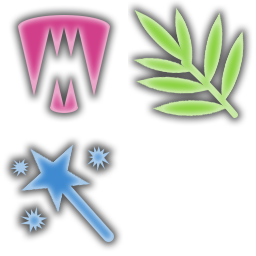
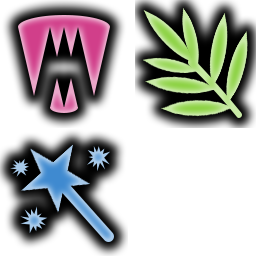
Glow things that can be use to satisfy orders

diff --git a/src/client/app.js b/src/client/app.js
@@ -8,7 +8,7 @@ const particle_data = require('./particle_data.js');
 const random_seed = require('random-seed');
 
 const { v2Build, v3Add, v3Build, v3BuildZero, v3Max, v3Min, v3Sub, v4Build } = VMath;
-const { abs, ceil, min, max, PI } = Math;
+const { abs, ceil, min, max, sin, PI } = Math;
 const { defaults, merge, clone, titleCase, lerp, easeInOut } = require('../common/util.js');
 
 let DEBUG = String(document.location).indexOf('localhost') !== -1;
@@ -320,6 +320,16 @@ export function main(canvas) {
         no_random: true,
       }
     ];
+    if (DEBUG && false) {
+      options = [
+        {
+          type: 'potion',
+          name: 'Potion',
+          min: [2, null, 2],
+          no_random: true,
+        }
+      ];
+    }
     let idx = game_state.orders_done + game_state.orders.length + 1;
     options = options.filter((order) => order.type === type);
     options = options.filter((order) => !order.min_idx || idx >= order.min_idx);
@@ -721,6 +731,10 @@ export function main(canvas) {
     return ret;
   }
 
+  function isSelected(type, value) {
+    return game_state.selected && game_state.selected[0] === type && game_state.selected[1] === value;
+  }
+
   function drawSources(dt) {
     let { selected } = game_state;
     let sources = clone(game_state.sources);
@@ -902,7 +916,42 @@ export function main(canvas) {
     }
   }
 
-  function drawBeakers(dt) {
+  function selectedMeetsOrder(order, selected) {
+    if (!selected) {
+      return false;
+    }
+    if (selected[0] !== order.type) {
+      return false;
+    }
+    if (DEBUG && glov_input.isKeyDown(key_codes.SHIFT)) {
+      return true;
+    }
+    let is_pet = order.type === 'pet';
+    let holder = is_pet ? 'pen' : 'sinks';
+    let thing = game_state[holder][selected[1]];
+    if (order.color !== undefined) {
+      if (order.color !== beakerType(thing.value, 3)) {
+        return false;
+      }
+    }
+    if (order.min) {
+      for (let ii = 0; ii < 3; ++ii) {
+        if (order.min[ii] !== null && thing.value[ii] < order.min[ii]) {
+          return false;
+        }
+      }
+    }
+    if (order.max) {
+      for (let ii = 0; ii < 3; ++ii) {
+        if (order.max[ii] !== null && thing.value[ii] > order.max[ii]) {
+          return false;
+        }
+      }
+    }
+    return true;
+  }
+
+  function drawSinks(dt) {
     let brew = calcBrew();
     let x0 = 1440;
     let y0 = 1120;
@@ -912,7 +961,7 @@ export function main(canvas) {
       let param = {
         x: x0 + sprite_size * ii,
         y: y0 + b.offset - 16,
-        z: Z.SPRITES,
+        z: Z.SPRITES + 3,
         size: [1, 1], // drawing
         w: sprite_size, // mouse
         h: sprite_size * 1.5,
@@ -930,13 +979,13 @@ export function main(canvas) {
         if (glov_input.clickHit(param)) {
           over = true;
           glov_ui.playUISound('select');
-          if (game_state.selected && game_state.selected[0] === 'potion' && game_state.selected[1] === ii) {
+          if (isSelected('potion', ii)) {
             game_state.selected = null;
           } else {
             game_state.selected = ['potion', ii];
           }
           selected = 1;
-        } else if (game_state.selected && game_state.selected[0] === 'potion' && game_state.selected[1] === ii) {
+        } else if (isSelected('potion', ii)) {
           selected = 0.75;
         }
         if (glov_input.isMouseOver(param)) {
@@ -949,7 +998,7 @@ export function main(canvas) {
         param.color = fluid_colors[type];
         param.color1 = fluid_colors_glow[type];
         sprites.beaker_full.drawDualTint(param);
-        if (game_state.selected && game_state.selected[0] === 'potion' && game_state.selected[1] === ii) {
+        if (isSelected('potion', ii)) {
           let mpos = glov_input.mousePos();
           sprites.beaker_full.drawDualTint(defaults({
             x: mpos[0] - sprite_size / 2,
@@ -958,10 +1007,22 @@ export function main(canvas) {
             color: v4Build(param.color[0], param.color[1], param.color[2], 0.5),
           }, param));
         }
+        param.z--;
         if (selected) {
           param.color = v4Build(1, 1, 1, selected);
-          param.z--;
           sprites.beaker_select.draw(param);
+        } else {
+          let useful = false;
+          for (let jj = 0; jj < game_state.orders.length; ++jj) {
+            let order = game_state.orders[jj];
+            if (order && selectedMeetsOrder(order, ['potion', ii])) {
+              useful = true;
+            }
+          }
+          if (useful) {
+            param.color = v4Build(1, 1, 0, 0.5 * abs(sin(glov_engine.getFrameTimestamp() * 0.005)));
+            sprites.beaker_select.draw(param);
+          }
         }
       }
 
@@ -1297,7 +1358,7 @@ export function main(canvas) {
     for (let ii = 0; ii < pen.length; ++ii) {
       let pet = pen[ii];
       let alpha = 1;
-      if (game_state.selected && game_state.selected[0] === 'pet' && game_state.selected[1] === ii) {
+      if (isSelected('pet', ii)) {
         let mpos = glov_input.mousePos();
         drawPet(pet, mpos[0] - petWidth(pet) / 2, mpos[1] - petHeight(pet) / 2, Z.DRAG, 0.5);
         alpha = 0.75;
@@ -1325,7 +1386,7 @@ export function main(canvas) {
         } else {
           game_state.selected = ['pet', ii];
         }
-      } else if (game_state.selected && game_state.selected[0] === 'pet' && game_state.selected[1] === ii) {
+      } else if (isSelected('pet', ii)) {
         selected = 0.75;
         let pen_param = {
           x: PEN_X0,
@@ -1337,7 +1398,7 @@ export function main(canvas) {
         if ((mpos = glov_input.clickHit(pen_param))) {
           game_state.selected = null;
           pet.pos[0] = min(max(PEN_X0, mpos[0] - petWidth(pet) / 2),
-            PEN_X0 + PEN_W - pet.size * sprite_size);
+            PEN_X0 + PEN_W - petWidth(pet));
           pet.pos[1] = min(max(PEN_Y0, mpos[1] - petHeight(pet) / 2), PEN_Y0 + PEN_H - sprite_size);
           need_sort = true;
         }
@@ -1348,17 +1409,31 @@ export function main(canvas) {
           selected = 0.5;
         }
       }
+      param.z -= 0.5;
       if (selected) {
         param.color = v4Build(1, 1, 1, selected);
-        param.z -= 0.5;
         sprites.pet_select[1/*pet.size*/].draw(param);
+      } else {
+        // check if any order is satisfied by this pet
+        let useful = false;
+        for (let jj = 0; jj < game_state.orders.length; ++jj) {
+          let order = game_state.orders[jj];
+          if (order && selectedMeetsOrder(order, ['pet', ii])) {
+            useful = true;
+          }
+        }
+        if (useful) {
+          param.color = v4Build(1, 1, 0, 0.5 * abs(sin(glov_engine.getFrameTimestamp() * 0.005)));
+          sprites.pet_select[1/*pet.size*/].draw(param);
+        }
       }
+
 
       if (over) {
         glov_ui.setMouseOver(pet);
         let tooltip_w = 400;
         let pad = 16;
-        let tooltip_x = param.x + (sprite_size * pet.size - tooltip_w) / 2;
+        let tooltip_x = param.x + (petWidth(pet) - tooltip_w) / 2;
         if (tooltip_x < glov_camera.x0()) {
           tooltip_x = glov_camera.x0();
         }
@@ -1425,41 +1500,6 @@ export function main(canvas) {
     }
   }
 
-  function selectedMeetsOrder(order) {
-    if (!game_state.selected) {
-      return false;
-    }
-    if (game_state.selected[0] !== order.type) {
-      return false;
-    }
-    if (DEBUG && glov_input.isKeyDown(key_codes.SHIFT)) {
-      return true;
-    }
-    let is_pet = order.type === 'pet';
-    let holder = is_pet ? 'pen' : 'sinks';
-    let thing = game_state[holder][game_state.selected[1]];
-    if (order.color !== undefined) {
-      if (order.color !== beakerType(thing.value, 3)) {
-        return false;
-      }
-    }
-    if (order.min) {
-      for (let ii = 0; ii < 3; ++ii) {
-        if (order.min[ii] !== null && thing.value[ii] < order.min[ii]) {
-          return false;
-        }
-      }
-    }
-    if (order.max) {
-      for (let ii = 0; ii < 3; ++ii) {
-        if (order.max[ii] !== null && thing.value[ii] > order.max[ii]) {
-          return false;
-        }
-      }
-    }
-    return true;
-  }
-
   function fulfillOrder(order_idx) {
     let order = game_state.orders[order_idx];
     let is_pet = order.type === 'pet';
@@ -1520,7 +1560,7 @@ export function main(canvas) {
       let h = ORDERS_Y0 + ORDERS_H - y;
       let param = { x, y, w, h };
       if (game_state.selected) {
-        if (selectedMeetsOrder(order)) {
+        if (selectedMeetsOrder(order, game_state.selected)) {
           let { ret, state } = glov_ui.buttonShared(param);
           if (ret) {
             fulfillOrder(ii);
@@ -1528,7 +1568,8 @@ export function main(canvas) {
           if (state === 'rollover') {
             param.color = v4Build(0.75, 1, 0.75, 1);
           } else {
-            param.color = v4Build(0.5, 1, 0.5, 1);
+            let glow = 0.25 * abs(sin(glov_engine.getFrameTimestamp() * 0.005));
+            param.color = v4Build(0.5, 0.75 + glow, 0.5, 1);
           }
         } else {
           param.color = v4Build(0.3, 0.3, 0.3, 1);
@@ -1796,7 +1837,7 @@ export function main(canvas) {
 
     drawSources(dt);
     drawPipes(dt);
-    drawBeakers(dt);
+    drawSinks(dt);
     drawPen(dt);
 
     drawButtons(dt);
